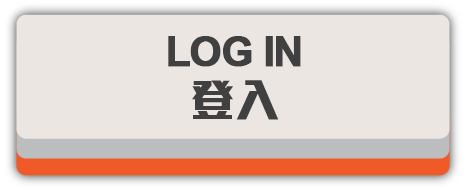
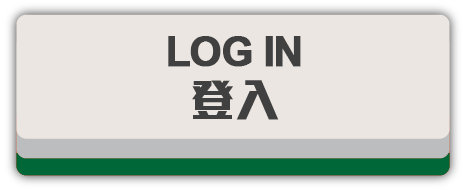
changes

Changed region(s): [[0.03, 0.8158, 0.9914, 0.9474]]

diff --git a/src/app/users/register/terms-condition/terms-condition.component.html b/src/app/users/register/terms-condition/terms-condition.component.html
@@ -21,7 +21,7 @@
                         <td rowspan="2">
                           <p>Please read these Official Rules and Terms carefully before using the
                             http://www.vitasoy80th.com
-                            website and 80 th Vitasoy Mahjong Game mobile application operated by Vitasoy North America,
+                            website and 80<sup>th</sup> Vitasoy Mahjong Game mobile application operated by Vitasoy North America,
                             Inc.
                             (Vitasoy North America). <br /><br />Your chance to enter and win the game is conditioned on
                             your acceptance of and compliance with
@@ -58,7 +58,7 @@
                             points!<br />5. You can also add 80th Vitasoy Mahjong Game to your Home Screen to receive an
                             additional 1000 points.<br /><br /><strong>Contest/Game Period</strong><br />80th Vitasoy
                             Mahjong Game and 80th Website will be live at 10:00 a.m. EST on April 1, 2020, and ends at
-                            11:59 p.m. on May 1, 2020. Vitasoy North America Inc. will reserve the right, in its sole
+                            11:59 p.m. on May 31, 2020. Vitasoy North America Inc. will reserve the right, in its sole
                             discretion, to modify, suspend, or extend the duration of the Contest/Game period for any
                             reason. Visit our website at <a href="https://vitasoy-na.com/">https://vitasoy-na.com/</a>
                             for updates. <br /><strong><br /></strong><strong>Winner Selection and
@@ -77,7 +77,7 @@
                             forfeited and an alternate winner will be selected based on the next highest-scoring player
                             per their region. To successfully claim the Prize, Vitasoy NA must receive the
                             Winner&rsquo;s signed and completed <a
-                              href="https://vitasoy-my.sharepoint.com/personal/fileadmin_vitasoy-na_com/Documents/Data/Sales%20&amp;%20Marketing/Marketing/2%20-%20FY20%20Marketing%20Activities/80th%20Anniversary/Mahjong%20Game/Copy/Declaration%20and%20Waiver%20of%20Release.pdf">Vitasoy
+                              href="https://firebasestorage.googleapis.com/v0/b/mahjong-c2571.appspot.com/o/legal%2FDeclarationAndWaiveroORelease.pdf?alt=media">Vitasoy
                               Mahjong Claim Declaration Form</a>. Receipt of the Prize offered in this Campaign is
                             conditioned upon compliance with any and all federal, state/provincial, local laws and
                             regulations.</p>
@@ -155,7 +155,7 @@
                           </ol>
                           <br />
                           <p><strong>活動推廣期</strong></p>
-                          <p>本活動由2020年4月1日上午10時0分開始至2020年5月1日晚上11時59分結束。</p>
+                          <p>本活動由2020年4月1日上午10時0分開始至2020年5月31日晚上11時59分結束。</p>
                           <p>
                             本活動規則中提及的所有時間和日期均為東部標準時間（EST）。登記資料及時間，將以本公
                             司伺服器所收獲之數據作準，逾期無效。維他奶北美公司有權全權自行決定以任何理由修改、

diff --git a/src/app/guard/auth-guard.ts b/src/app/guard/auth-guard.ts
@@ -1,26 +1,58 @@
 import { Injectable } from '@angular/core';
 import { Router, CanActivate } from '@angular/router';
+import { AngularFireAuth } from '@angular/fire/auth';
 import { AppService } from '../shared/app.service';
 import 'firebase/auth';
 import { ERROR_MESSAGE } from '../shared/message.strings';
 import * as firebase from 'firebase';
 import { MESSAGE_TYPE } from '../shared/app.model';
+import { ParsedProperty } from '@angular/compiler';
 
 @Injectable({
   providedIn: 'root'
 })
 export class AuthGuardService implements CanActivate {
 
-  constructor(private router: Router, private appService: AppService) { }
+  constructor(private afAuth: AngularFireAuth,private router: Router, private appService: AppService) {
+    
+   }
 
-  canActivate(): boolean {
-    if (!localStorage.getItem('authToken')) {
+   canActivate(): boolean {
+    
+  /*   if (!localStorage.getItem('authToken')) {
       this.appService.presentToast(this.appService.getAppMessage(ERROR_MESSAGE.ERR_USER_NOT_LOGGED, MESSAGE_TYPE.ERROR),
         'success');
       this.router.navigate(['/users/login']);
       return false;
-    }
+    } */
+    this.isLoggedIn().then(
+      (val) => {
+        if(val){
+        }else{
+          this.appService.presentToast(this.appService.getAppMessage(ERROR_MESSAGE.ERR_USER_NOT_LOGGED, MESSAGE_TYPE.ERROR),
+          'success');
+          this.router.navigate(['/users/login']);
+        }
+      }
+  );
     return true;
   }
+
+  isLoggedIn(){
+
+    var promise = new Promise((resolve, reject) => {
+      this.afAuth.authState.subscribe(res => {
+        if (res && res.uid) {
+          console.log('user is logged in');
+          resolve(true);
+        } else {
+          console.log('user not logged in');
+          resolve(false);
+        }
+      });
+    }); 
+    return promise;
+    
+    }
 
 }

diff --git a/src/app/userhistory/userhistory.page.html b/src/app/userhistory/userhistory.page.html
@@ -15,8 +15,8 @@
           <ion-row>
             <ion-col size="7"><img src="../assets/images/my_score_logo.png" style="float: left;" /></ion-col>
             <ion-col size="5" align-self-end>
-              <div class="player-info" style="">
-                <div class="player-card" style="text-align: -webkit-center;">
+              <div class="player-info" >
+                <div class="player-card" style="text-align: center;">
                   <div class="serialNo player-label" style="margin-left: -10%;" align-self-center>
                     <ng-container *ngIf="totalScore == 0; else score">
                       ...
@@ -39,16 +39,16 @@
           <div class="base-view">
             <div class="login-view">
               <div class="previous-score">
-                <ng-container *ngFor="let data of userHistory">
-                  <div padding>
+                <ng-container *ngFor="let data of userHistory" >
+                  <div padding  >
                     <ion-label class="lable-font" style="float: left;padding-top: 4px;">{{data.tileName}}</ion-label>
                     <ion-label class="lable-font" style="float: right;">
                       <label class="scoreplus">+{{data.tileScore}}</label> X <div class="scorex"> {{data.tileCount}}
                       </div>
                     </ion-label>
                   </div>
-                  <div class="card-image" padding>
-                    <ion-img style="border-bottom: 2px solid lightgrey; padding-bottom: 15px;" [src]="data.tileUrl">
+                  <div class="card-image"  padding>
+                    <ion-img [ngClass]="{ 'makefade': data.tileCount ==0 }"  style="border-bottom: 2px solid lightgrey; padding-bottom: 15px;" [src]="data.tileUrl">
                     </ion-img>
                   </div>
                 </ng-container>

diff --git a/src/app/shared/app.labels.ts b/src/app/shared/app.labels.ts
@@ -51,7 +51,7 @@ export const APP_LABELS_EN_CH = {
     FIRST_NAME: 'First Name 名字',
     LAST_NAME: 'Last Name 姓氏',
     ADDRESS: 'Address 住址',
-    POSTCODE: 'Postal Code 郵政編碼',
+    POSTCODE: 'Zip/Postal Code 郵政編碼 ',
     EMAIL: 'Email 電郵',
     PASSWORD: 'Password 密碼',
     CONFIRM_PASSWORD: 'Confirm Password 確認密碼',
@@ -63,6 +63,8 @@ export const APP_LABELS_EN_CH = {
     INFO_TEXT1: 'Please ensure email address is valid as winners will be contacted primarily via email. 勝出者將會收到電郵通知，請確保電郵地址正確',
     INFO_TEXT2: 'Winners will be contacted both via email and SMS if they' +
         ' have provided mobile number in this form. 勝出者如有填寫手機號碼，屆時將會收到電郵及短信通知得獎。',
+    INFO_TEXT3:'If you are deemed the Winner of the game, you will be receiving your Prize at this provided address. Please provide a valid address or P.O Box.  如果您是遊戲的贏家，您將會在提供的地址獲取獎品。 請提供有效地址或郵政信箱。',
+    INFO_TEXT4:'Indicates a required field 表示必填字段',
     ASK_PERMISSION_AFTER_SCAN: 'You have a winning combination! 你已贏到糊牌組合！',
     SKIP: 'Don’t Add 不添加',
     CONTINUE: 'Add New Score 添加新分數',
@@ -105,6 +107,8 @@ export enum APP_LABELS {
     BACK_2_LOGIN = 'BACK_2_LOGIN',
     INFO_TEXT1 = 'INFO_TEXT1',
     INFO_TEXT2 = 'INFO_TEXT2',
+    INFO_TEXT3='INFO_TEXT3',
+    INFO_TEXT4='INFO_TEXT4',
     ASK_PERMISSION_AFTER_SCAN = 'ASK_PERMISSION_AFTER_SCAN',
     CONTINUE = 'CONTINUE',
     SKIP = 'SKIP',

diff --git a/src/app/scoreboard/scoreboard.page.scss b/src/app/scoreboard/scoreboard.page.scss
@@ -47,15 +47,30 @@
     display: inline-flex;
 }
 
+@supports (-ms-ime-align: auto) {
+    .img-align {
+        margin-left:20% !important;
+    }
+  }
 .img-align {
     text-align: end;
 }
+
+@supports (-ms-ime-align: auto) {
+    .player-info{
+        width: fill-available !important;
+        width: 100%;
+    }
+
+  }
 
 .player-info {
     box-shadow: 0px 10px 0px 0px #F7921C;
     border-radius: 3px;
     margin-bottom: 5%;
-    width: -webkit-fill-available;
+    width: -moz-available;          /* WebKit-based browsers will ignore this. */
+    width: -webkit-fill-available;  /* Mozilla-based browsers will ignore this. */
+    
 }
 
 .player-card {
@@ -69,9 +84,31 @@
     box-shadow: 0px 10px 0px 0px green;
     border-radius: 3px;
     margin-bottom: 5%;
-    width: -webkit-fill-available;
+    width: -moz-available;          /* WebKit-based browsers will ignore this. */
+    width: -webkit-fill-available;  /* Mozilla-based browsers will ignore this. */
 }
 
+@supports (-ms-ime-align: auto) {
+    .own-info{
+        width: fill-available !important;
+        width: 100% !important;
+    }
+  }
+
+.own-card {
+    box-shadow: 0px 10px 0px 0px green;
+    border-radius: 3px;
+    margin-bottom: 5%;
+    width: -moz-available;          /* WebKit-based browsers will ignore this. */
+    width: -webkit-fill-available;  /* Mozilla-based browsers will ignore this. */
+   
+}
+
+@supports (-ms-ime-align: auto) {
+    .own-card{
+        width: fill-available !important;
+    }
+  }
 .player-details {
     position: absolute;
     z-index: 10;

diff --git a/src/app/welcome/welcome.page.html b/src/app/welcome/welcome.page.html
@@ -87,7 +87,7 @@
               </ion-row>
               <ion-card-header class="card-header">
                 <ion-card-title class="card-font">Mahjong Game</ion-card-title>
-                <ion-card-subtitle class="card-font">麻雀遊戲</ion-card-subtitle>
+                <ion-card-subtitle class="card-font">麻將游戲                                                                                           </ion-card-subtitle>
                 <ion-row justify-content-center align-items-center style="text-align: center;">
                 <ion-button expand="block" fill="clear" class="btn-card" routerLink="/howtoplay">
                   <div style="color: white;">
@@ -121,7 +121,7 @@
               <img [src]="'../assets/images/front3.jpg'" />
               <ion-card-header class="card-header">
                 <ion-card-title class="card-font">Learn more about Vitasoy North America</ion-card-title>
-                <ion-card-subtitle class="card-font">更多關於北美維他奶</ion-card-subtitle>
+                <ion-card-subtitle class="card-font">更多關於維他奶北美</ion-card-subtitle>
                 <ion-row justify-content-center align-items-center style="text-align: center;">
                 <ion-button expand="block" fill="clear" class="btn-card" (click)="redirect()">
                   <div style="color: white;">

diff --git a/src/app/users/register/register.page.html b/src/app/users/register/register.page.html
@@ -57,6 +57,10 @@
                     </ion-label>
                     <ion-textarea rows="6" cols="20" class="input-field" [(ngModel)]="userDetails.address"
                       [ngModelOptions]="{standalone: true}"></ion-textarea>
+                      <p class="info-text">
+                        <ion-text color="danger">*
+                        </ion-text>{{appService.getAppLabels(appLabels.INFO_TEXT3)}}
+                      </p>
                   </div>
                   <div padding class=" form-group">
                     <ion-label class="lable-font" position="stacked">{{appService.getAppLabels(appLabels.POSTCODE)}}
@@ -92,7 +96,12 @@
                     </ion-label>
                     <ion-input required type="password" class="input-field" [(ngModel)]="confirmPassword"
                       [ngModelOptions]="{standalone: true}"></ion-input>
-                  </div>
+                      <p class="info-text"  style="font-size: 12px;">
+                        <ion-text color="danger">*
+                        </ion-text>{{appService.getAppLabels(appLabels.INFO_TEXT4)}}
+                      </p>
+                    </div>
+                 
                 </form>
               </div>
             </div>

diff --git a/src/app/userhistory/userhistory.page.scss b/src/app/userhistory/userhistory.page.scss
@@ -7,7 +7,7 @@
 
 .base-view {
     border-radius: 24px;
-    box-shadow: 16px -12px 0px 4px #98C645;
+    box-shadow: 16px -12px 0px 4px #006838;
     width: 95%;
 }
 
@@ -56,7 +56,8 @@
     box-shadow: 0px 10px 0px 0px #F7921C;
     border-radius: 3px;
     margin-bottom: 5%;
-    width: -webkit-fill-available;
+    width: -moz-available;          /* WebKit-based browsers will ignore this. */
+    width: -webkit-fill-available;  /* Mozilla-based browsers will ignore this. */
     display: table;
     float: right;
     background-color: white;
@@ -64,7 +65,18 @@
     margin-right: 6%;
 }
 
-.player-card {
+@supports (-ms-ime-align: auto) {
+    .player-info{
+        width: fill-available !important;
+        width: 100% ;
+    }
+  }
+
+    .makefade{
+        opacity: 0.2;
+   }
+
+ .player-card {
     background-color: #EBE6E2;
     height: 40px;
     font-size: 20px;

diff --git a/src/app/scoreboard/scoreboard.page.html b/src/app/scoreboard/scoreboard.page.html
@@ -73,7 +73,7 @@
             <ion-row align-items-center justify-content-center>
               <div class="player-details">
                 <div style="display: flex;" class="card-align">
-                  <div class="own-info" style="max-width: fit-content;">
+                  <div class="own-card" style="max-width: fit-content;">
                     <div class="player-card" style="text-align: -webkit-center;">
                       <div class="serialNo player-label" style="padding: 0px 5px 0px 5px;min-width: 30px;">
                         {{currentUserRank}}</div>

diff --git a/src/app/users/register/register.page.ts b/src/app/users/register/register.page.ts
@@ -98,10 +98,10 @@ export class RegisterPage implements OnInit {
       return false;
     }
     this.validateEmail();
-    /*   if (!this.userDetails.address || this.userDetails.address === '') {
+    if (!this.userDetails.address || this.userDetails.address === '') {
         this.errorMessage = ERROR_MESSAGE.ERR_ADDRESS_REQUIRED;
         return false;
-      } */
+      } 
     if (this.userDetails.address && this.userDetails.address.toString().length >= 151) {
       this.errorMessage = ERROR_MESSAGE.ERR_ADDRESS_LENGTH_EXCEEDS;
       return false;

diff --git a/src/app/welcome/welcome.page.scss b/src/app/welcome/welcome.page.scss
@@ -1,7 +1,16 @@
   .slider {
     height: 100% !important;
-    width: -webkit-fill-available;
+    width: -moz-available;          /* WebKit-based browsers will ignore this. */
+    width: -webkit-fill-available;  /* Mozilla-based browsers will ignore this. */
   }
+
+  @supports (-ms-ime-align: auto) {
+    .slider{
+        width: fill-available !important;
+        width: 100% !important;
+    }
+  }
+
 
   .card-header {
     background-color: white;

diff --git a/src/app/app-routing.module.ts b/src/app/app-routing.module.ts
@@ -51,10 +51,12 @@ const routes: Routes = [
   {
     path: '**',
     loadChildren: () => import('./not-found-component/not-found-component.module').then( m => m.NotFoundComponentPageModule)
+    ,canActivate: [NavigateGuard]
   },
   {
     path: 'add-to-home',
     loadChildren: () => import('./add-to-home/add-to-home.module').then( m => m.AddToHomePageModule)
+    ,canActivate: [NavigateGuard]
   },
 ];
 
